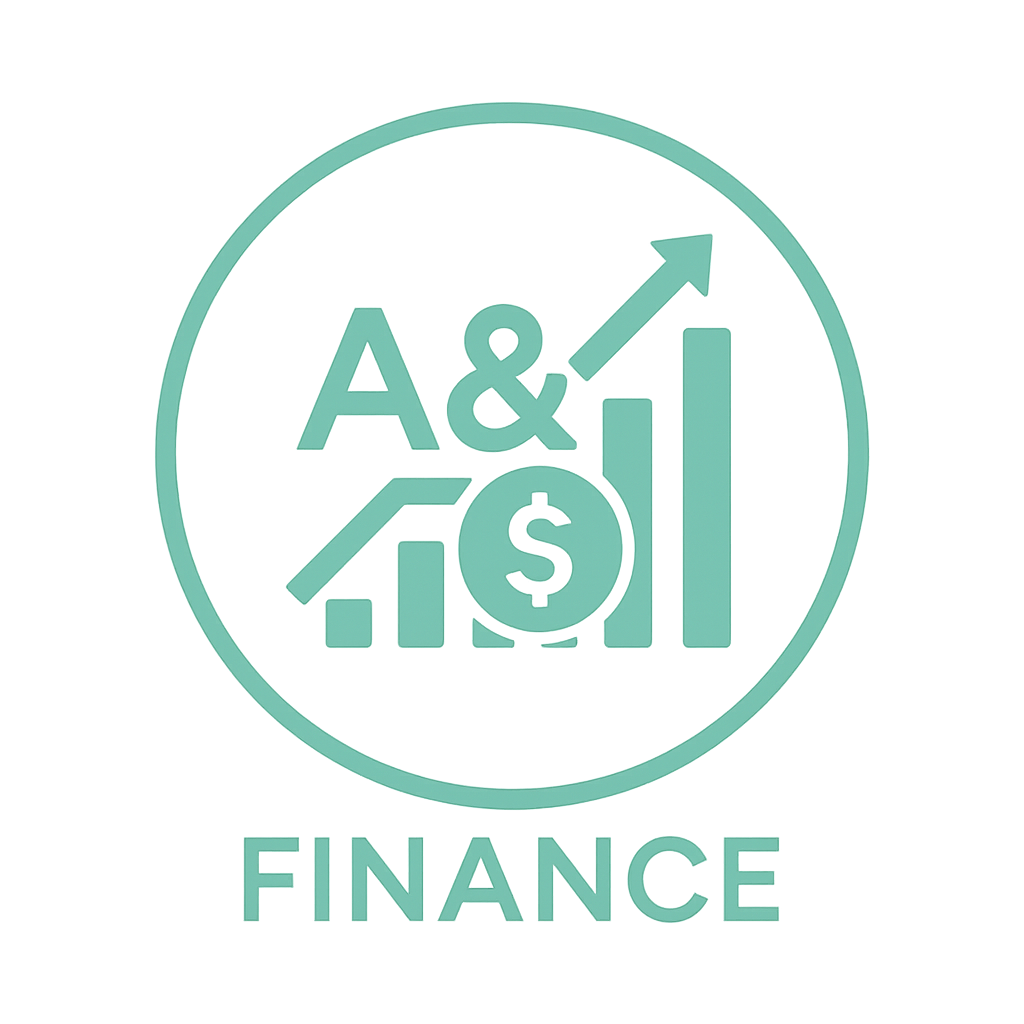
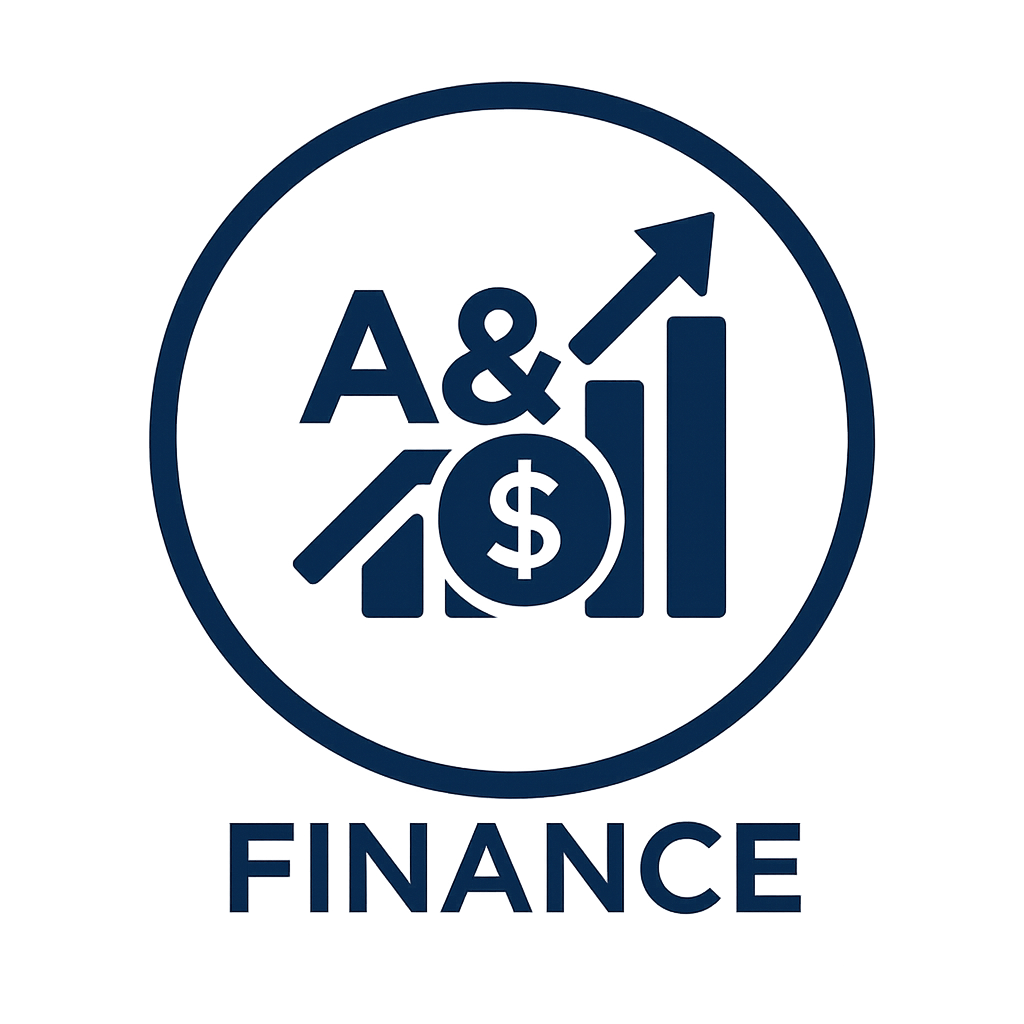
troca de cor do layout geral

Changed region(s): [[0.125, 0.0625, 0.875, 0.9062]]

diff --git a/static/css/despesas.css b/static/css/despesas.css
@@ -15,10 +15,10 @@ table {
 }
 
 thead, th {
-    background-color: #003f5c;
+    background-color: #0abfa7;
     color: white;
     border: none !important;
-    border-color: #003f5c !important;
+    border-color: #028675 !important;
 }
 
 th, td {
@@ -36,7 +36,7 @@ tbody tr:hover {
 }
 
 tfoot td {
-    background-color: #003f5c;
+    background-color: #0abfa7;
     font-weight: bold;
     color: white
 }
@@ -67,7 +67,7 @@ tfoot td {
 } */
 
 .pagination .button:hover {
-    background-color: #254a72c9;
+    background-color: #0abfa7;
 }
 
 
@@ -83,46 +83,46 @@ select {
     transition: border 0.3s ease; */
 
     padding: 5px 0px 5px 0px;
-  border: 1px solid #003f5c;
+  border: 1px solid #038a78;
   border-radius: 20px;
   background-color: white;
   font-size: 10px;
-  color: #003f5c;
+  color: #0abfa7;
   transition: border 0.3s ease;
   margin-bottom: 10px;
 }
 
 select#categoria:focus {
-    border-color: #003f5c;
+    border-color: #0abfa7;
     outline: none;
 }
 
 /* Estilo do campo de data */
 input#periodo-picker {
     padding: 8px 12px;
-    border: 1px solid #003f5c;
+    border: 1px solid #038a78;
     border-radius: 6px;
     background-color: #f0fafa;
     font-size: 10px;
-    color: #003f5c;
+    color: #0abfa7;
     width: 220px;
     margin-right: 10px;
 }
 
 input#periodo-picker:focus {
-    border-color: #003f5c;
+    border-color: #0abfa7;
     outline: none;
 }
 
 
 .botao-filtrar {
-    background-color: #003f5c;
+    /* background-color: #003f5c; */
     color: white;
     border: none;
     cursor: pointer;
     font-size: medium;
     text-decoration: none;
-    background: linear-gradient(135deg, #2d6e8b, #003f5c);
+    background: linear-gradient(135deg, #59ebd7, #0abfa7);
     color: white;
     border-radius: 5px;
     transition: background-color 0.3s ease, transform 0.2s ease;
@@ -135,7 +135,7 @@ input#periodo-picker:focus {
 }
 
 .edit-icon {
-    color: #003f5c;
+    color: #0abfa7;
     cursor: pointer;
     font-size: 16px;
     opacity: 0.6;
@@ -223,13 +223,13 @@ input#periodo-picker:focus {
   }
   
   form input:focus {
-    border-color: #003f5c;
+    border-color: #0abfa7;
     outline: none;
   }
   
   .botao-salvar , .btn-ok, .botao-deletar {
     width: 100%;
-    background-color: #003f5c;
+    background-color: #0abfa7;
     color: white;
     border: none;
     padding: 8px;
@@ -239,7 +239,7 @@ input#periodo-picker:focus {
   }
   
   .botao-salvar:hover {
-    background-color: #003f5c;
+    background-color: #0abfa7;
   }
   
   /* Responsivo (mobile first) */
@@ -314,7 +314,7 @@ input#periodo-picker:focus {
 
 
 .btn-left {
-  background: linear-gradient(135deg, #3e6679, #003f5c);
+  background: linear-gradient(135deg, #42e7d1, #0abfa7);
   margin-right: 10px;
 }
 
@@ -369,7 +369,7 @@ h2 {
 }
 
 .btn-voltar:hover {
-    background-color: #003f5c;  /* Um tom mais escuro de azul */
+    background-color: #0abfa7;  /* Um tom mais escuro de azul */
     transform: translateY(-3px); /* Elevação no hover */
     outline: none;
     box-shadow: 0px 0px 10px rgba(52, 152, 219, 0.8);

diff --git a/static/css/extrato.css b/static/css/extrato.css
@@ -16,7 +16,7 @@ table {
 }
 
 thead {
-    background-color: #003f5c;
+    background-color: #0abfa7;
     color: white;
 }
 
@@ -36,7 +36,7 @@ tbody tr:hover {
 }
 
 tfoot td {
-    background-color: #003f5c;
+    background-color: #0abfa7;
     font-weight: bold;
     color: white;
 }
@@ -65,7 +65,7 @@ tfoot td {
     display: inline-block;
     padding: 10px 15px;
     text-decoration: none;
-    background: linear-gradient(135deg, #13648a, #003f5c);
+    background: linear-gradient(135deg, #4ee7d3, #0abfa7);
     color: white;
     border-radius: 5px;
     margin: 5px;
@@ -110,29 +110,29 @@ tfoot td {
 select, #categoria {
     /* padding: 8px 12px; */
     padding: 4px 120px 7px 11px;
-    border: 1px solid #003f5c;
+    border: 1px solid #038b79;
     border-radius: 6px;
     background-color: #f0fafa;
     font-size: 10px;
-    color: #003f5c;
+    color: #0abfa7;
     margin-right: 10px;
     transition: border 0.3s ease;
     margin-bottom: 5px;
 }
 
 select, #categoria:focus {
-    border-color: #003f5c;
+    border-color: #0abfa7;
     outline: none;
 }
 
 /* Estilo do campo de data */
 input#periodo-picker {
     padding: 8px 12px;
-    border: 1px solid #003f5c;
+    border: 1px solid #046e60;
     border-radius: 6px;
     background-color: #f0fafa;
     font-size: 10px;
-    color: #003f5c;
+    color: #0abfa7;
     width: 220px;
     margin-right: 10px;
 }
@@ -144,13 +144,13 @@ input#periodo-picker:focus {
 
 
 .botao-filtrar {
-    background-color: #003f5c;
+    background-color: #0abfa7;
     color: white;
     border: none;
     cursor: pointer;
     font-size: medium;
     text-decoration: none;
-    background: linear-gradient(135deg, #075b81, #0e506e);
+    background: linear-gradient(135deg, #4cf0da, #0abfa7);
     color: white;
     border-radius: 5px;
     transition: background-color 0.3s ease, transform 0.2s ease;
@@ -258,7 +258,7 @@ input#periodo-picker:focus {
   
   .botao-salvar, .btn-ok {
     width: 100%;
-    background-color: #003f5c;
+    background-color: #0abfa7;
     color: white;
     border: none;
     padding: 8px;
@@ -268,7 +268,7 @@ input#periodo-picker:focus {
   }
   
   .botao-salvar:hover {
-    background-color: #003f5c;
+    background-color: #0abfa7;
   }
   
   /* Responsivo (mobile first) */
@@ -343,7 +343,7 @@ input#periodo-picker:focus {
 
 
 .btn-left {
-  background: linear-gradient(135deg, #13648a, #003f5c);
+  background: linear-gradient(135deg, #61f0dd, #0abfa7);
   margin-right: 10px;
 }
 

diff --git a/static/js/extrato.js b/static/js/extrato.js
@@ -132,14 +132,14 @@ document.addEventListener('click', function (event) {
       modal.style.display = 'block';
     }
   
-    //cadastro ok  
-    if (event.target && event.target.classList.contains('botao-salvar')) {
-      const modal_ok = document.getElementById('modal-cadastro-ok');
-      const modal_cad = document.getElementById('modal-cadastrar');
-      modal_cad.style.display = 'none';
-      modal_ok.style.display = 'block';
+  //   //cadastro ok  
+  //   if (event.target && event.target.classList.contains('botao-salvar')) {
+  //     const modal_ok = document.getElementById('modal-cadastro-ok');
+  //     const modal_cad = document.getElementById('modal-cadastrar');
+  //     modal_cad.style.display = 'none';
+  //     modal_ok.style.display = 'block';
   
-   }
+  //  }
 
     // Fechar o modal quando clicar no botão de fechar ou fora do modal
     const fecharModal = document.getElementById('fechar-modal');

diff --git a/static/css/comum.css b/static/css/comum.css
@@ -5,7 +5,8 @@
     bottom: 0;
     left: 0;
     width: 100%;
-    background-color: #003f5c; /* Verde moderninho */
+    /* background-color: #003f5c; Verde moderninho */
+    background-color: #0abfa7; /*#3ABF7F;*/
     display: flex;
     justify-content: space-around;
     align-items: center;
@@ -50,7 +51,7 @@
     left: 0;
     width: 100%;
     /* background-color: #009688; */
-    background-color: #003f5c;
+    background-color: #0abfa7;
     display: flex;
     justify-content: left; /* Centraliza o bloco logo + texto */
     align-items: left;
@@ -97,7 +98,7 @@
   
 
   .footer-btn.active {
-    background-color: #003f5c; /* cor levemente mais escura para o botão ativo */
+    background-color: #0abfa7; /* cor levemente mais escura para o botão ativo */
     /* border-radius: 10px; */
     transform: translateY(-6px);
     /* box-shadow: 0 4px 6px rgba(0, 0, 0, 0.3); */

diff --git a/static/js/scripts.js b/static/js/scripts.js
@@ -172,7 +172,7 @@ barChart = new Chart(ctxBar, {
       datasets: [{
           label: 'Gastos Mensais (R$)',
           data: [100, 5000, 1500, 10000, 1800, 600, 20],
-          backgroundColor: ['#003f5c','#003f5c','#003f5c','#003f5c','#003f5c','#003f5c','#003f5c'], // Cores suaves
+          backgroundColor: ['#0abfa7','#0abfa7','#0abfa7','#0abfa7','#0abfa7','#0abfa7','#0abfa7'], // Cores suaves
           borderColor: '#F1F1F1', // Borda suave
           borderWidth: 1
       }]
@@ -220,7 +220,7 @@ barChart = new Chart(ctxBar, {
               title: {
                   display: false,
                   text: 'Valor Gasto (R$)',
-                  color: '#2E3B55',
+                  color: '#2ECC71',
                   font: {
                       size: 12,
                       weight: 'bold'

diff --git a/static/css/styles.css b/static/css/styles.css
@@ -279,7 +279,7 @@ body {
   }
 
   .period-button {
-    background: linear-gradient(135deg, #105c80, #003f5c);
+    background: linear-gradient(135deg, #5be9d6, #0abfa7);
     color: white;
     font-size: 9px;
     font-weight: 800;
@@ -292,12 +292,12 @@ body {
   }
 
   .period-button:hover {
-    background: linear-gradient(135deg, #0f5575, #003f5c);
+    background: linear-gradient(135deg, #5be9d6, #0abfa7);
     transform: translateY(-3px)
   }
 
    .period-button.active {
-    background: linear-gradient(135deg, #155872, #123e5c);
+    background: linear-gradient(135deg, #5be9d6, #0abfa7);
     color: white;
     box-shadow: 0 0 10px rgba(0, 0, 0, 0.2);
   } 
